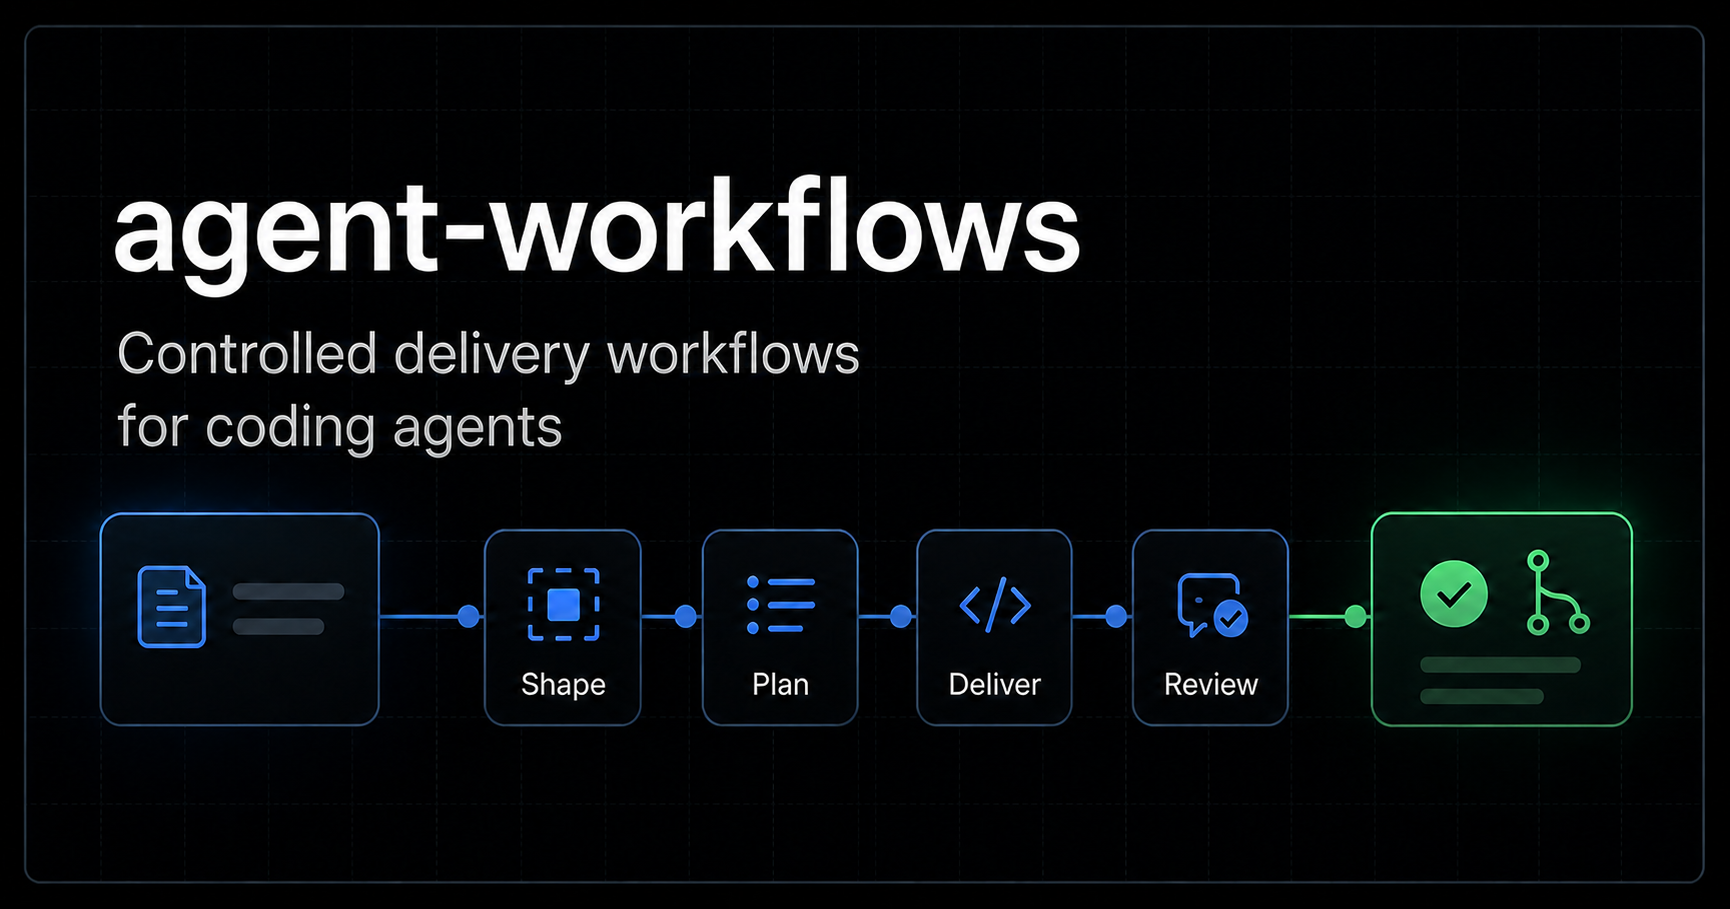
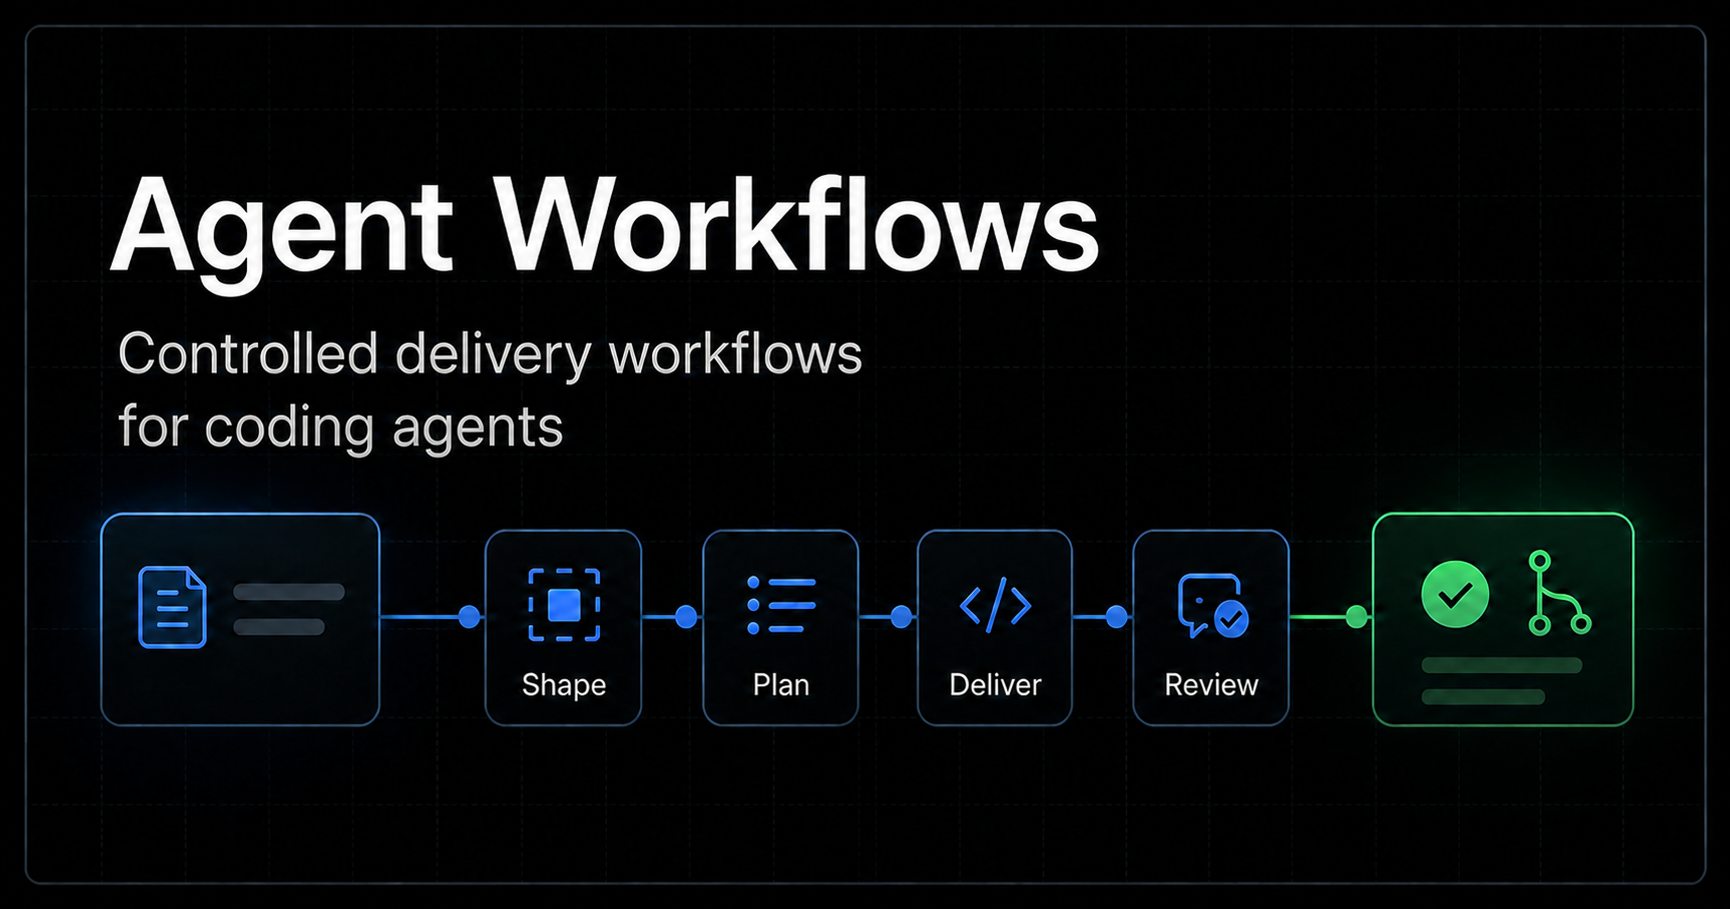
docs: ENforce readme illustration

diff --git a/astro.config.ts b/astro.config.ts
@@ -8,7 +8,7 @@ export default defineConfig({
   srcDir: './docs',
   integrations: [
     starlight({
-      title: 'agent-workflows',
+      title: 'Agent Workflows',
       description:
         'Move from work item to merged request with workflows that select the right skills, keep mutations explicit, and synchronize your providers.',
       customCss: ['./docs/styles/custom.css'],

diff --git a/docs/index.md b/docs/index.md
@@ -3,7 +3,7 @@ title: Turn coding agents into a controlled delivery workflow.
 description: Move from work item to merged request with workflows that select the right skills, keep mutations explicit, and synchronize your providers.
 head:
   - tag: title
-    content: agent-workflows - controlled delivery workflows for coding agents
+    content: Agent Workflows - controlled delivery workflows for coding agents
   - tag: meta
     attrs:
       property: og:image
@@ -25,7 +25,7 @@ editUrl: false
 hero:
   layout: media-left
   title: Turn coding agents into a controlled delivery workflow.
-  tagline: From work item to merged request, agent-workflows selects and sequences the right skills, keeps every mutation explicit, and synchronizes your providers.
+  tagline: From work item to merged request, Agent Workflows selects and sequences the right skills, keeps every mutation explicit, and synchronizes your providers.
   image:
     html: |-
       <div class="workflow-hero-media" role="img" aria-label="The write workflow dispatching to the idea-refine skill with Linear as the active provider">
@@ -55,7 +55,7 @@ hero:
         </div>
       </div>
   actions:
-    - text: Install agent-workflows
+    - text: Install Agent Workflows
       link: /agent-workflows/installation/
       icon: right-arrow
     - text: See the workflow
@@ -78,7 +78,7 @@ hero:
     </div>
     <div>
       <p>Skills can shape ideas, plan changes, write code, and review requests. On their own, they do not decide what happens next, who may change an external system, or when you should approve the work.</p>
-      <p><code>agent-workflows</code> gives those skills one controlled lifecycle. Each command owns a clear outcome, carries context forward, and stops at the right boundary.</p>
+      <p><strong>Agent Workflows</strong> gives those skills one controlled lifecycle. Each command owns a clear outcome, carries context forward, and stops at the right boundary.</p>
     </div>
   </section>
 

diff --git a/README.md b/README.md
@@ -1,10 +1,12 @@
-# agent-workflows
+# Agent Workflows
+
+**Turn specialized agent skills into one controlled delivery system.**
 
 Skills are good at individual jobs. They do not decide which specialist should
 run next, how context moves between steps, or when an agent is allowed to change
 your work tracker and repository.
 
-`agent-workflows` is the workflow that connects them. One install adds a complete delivery system to your coding agent—from rough intent to merged request—with the right skill at each step and approval before every consequential action.
+**Agent Workflows** is the workflow that connects them. One install adds a complete delivery system to your coding agent—from rough intent to merged request—with the right skill at each step and approval before every consequential action.
 
 <p>
   <picture>
@@ -84,6 +86,14 @@ the approved result to the next workflow.
 
 You can also enter the lifecycle at any workflow—for example `/pick` to select
 an existing item before planning it.
+
+<p align="center">
+  <img
+    alt="The Agent Workflows lifecycle from shaped intent to completed work"
+    src="./public/workflow-lifecycle.png"
+    width="900"
+  >
+</p>
 
 ## Works with
 

diff --git a/docs/installation.md b/docs/installation.md
@@ -1,9 +1,9 @@
 ---
 title: Installation
-description: Add agent-workflows to a project.
+description: Add Agent Workflows to a project.
 ---
 
-From the project root, install the `agent-workflows` Skill:
+From the project root, install the Agent Workflows bootstrap Skill:
 
 ```bash
 npx skills add cyrilichti/agent-workflows --skill agent-workflows
